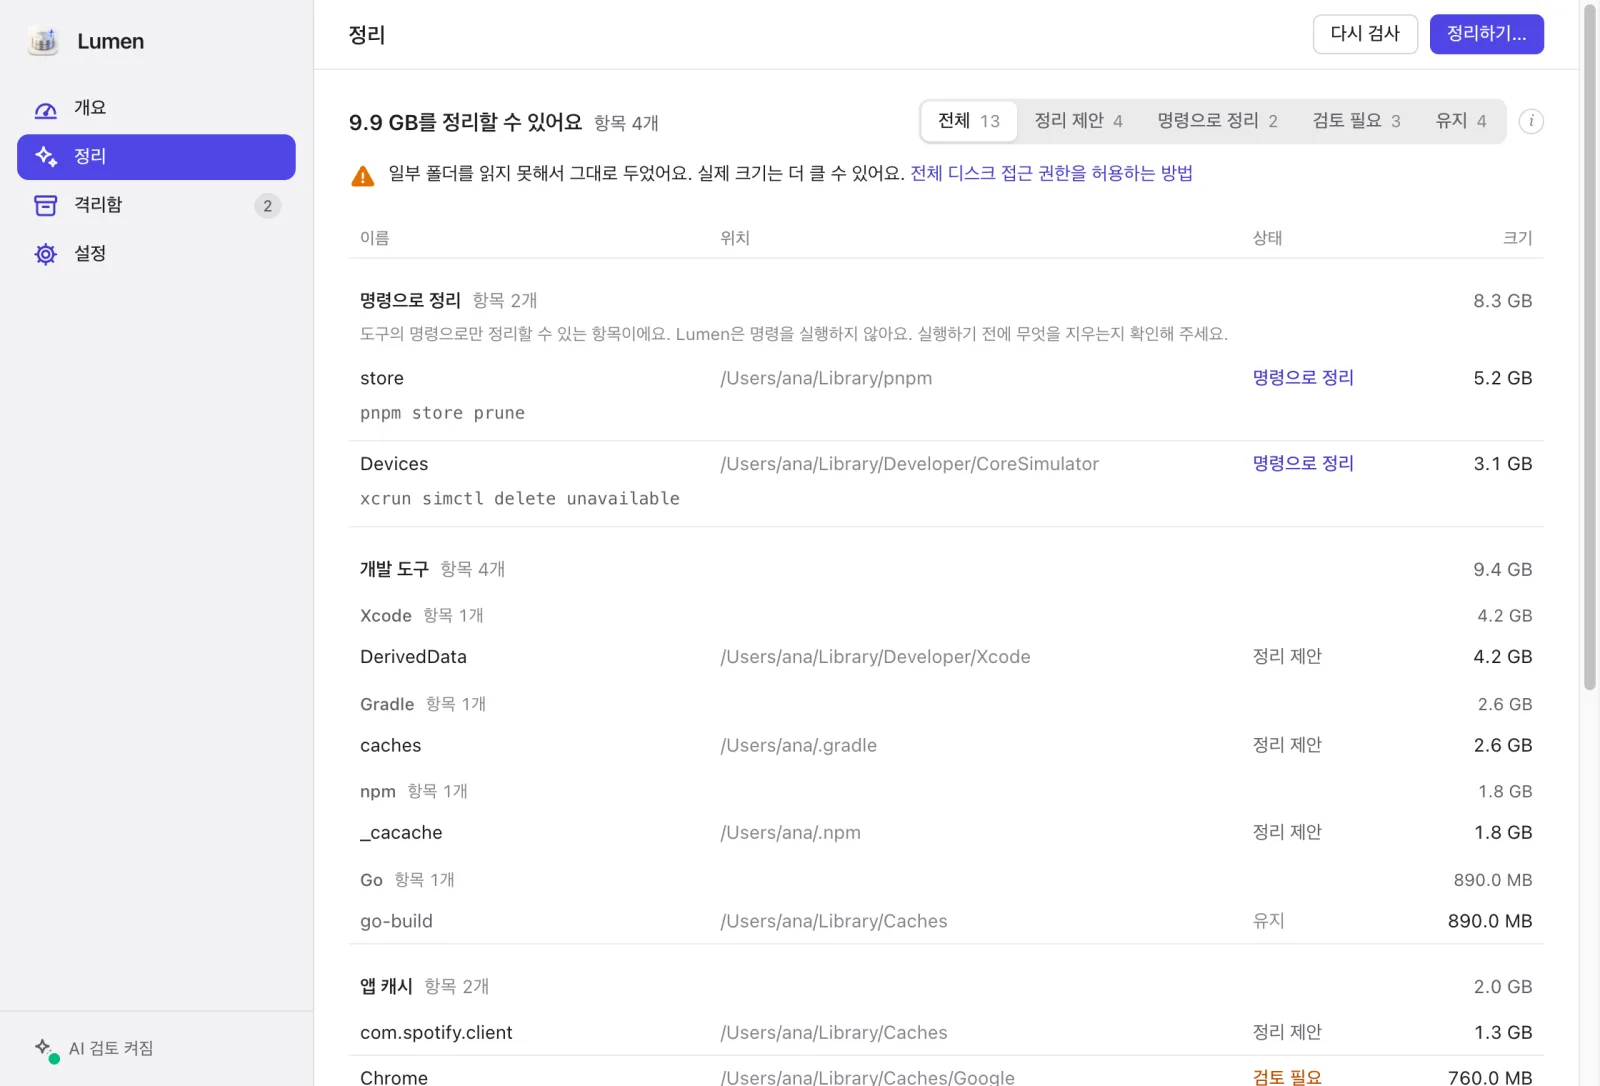
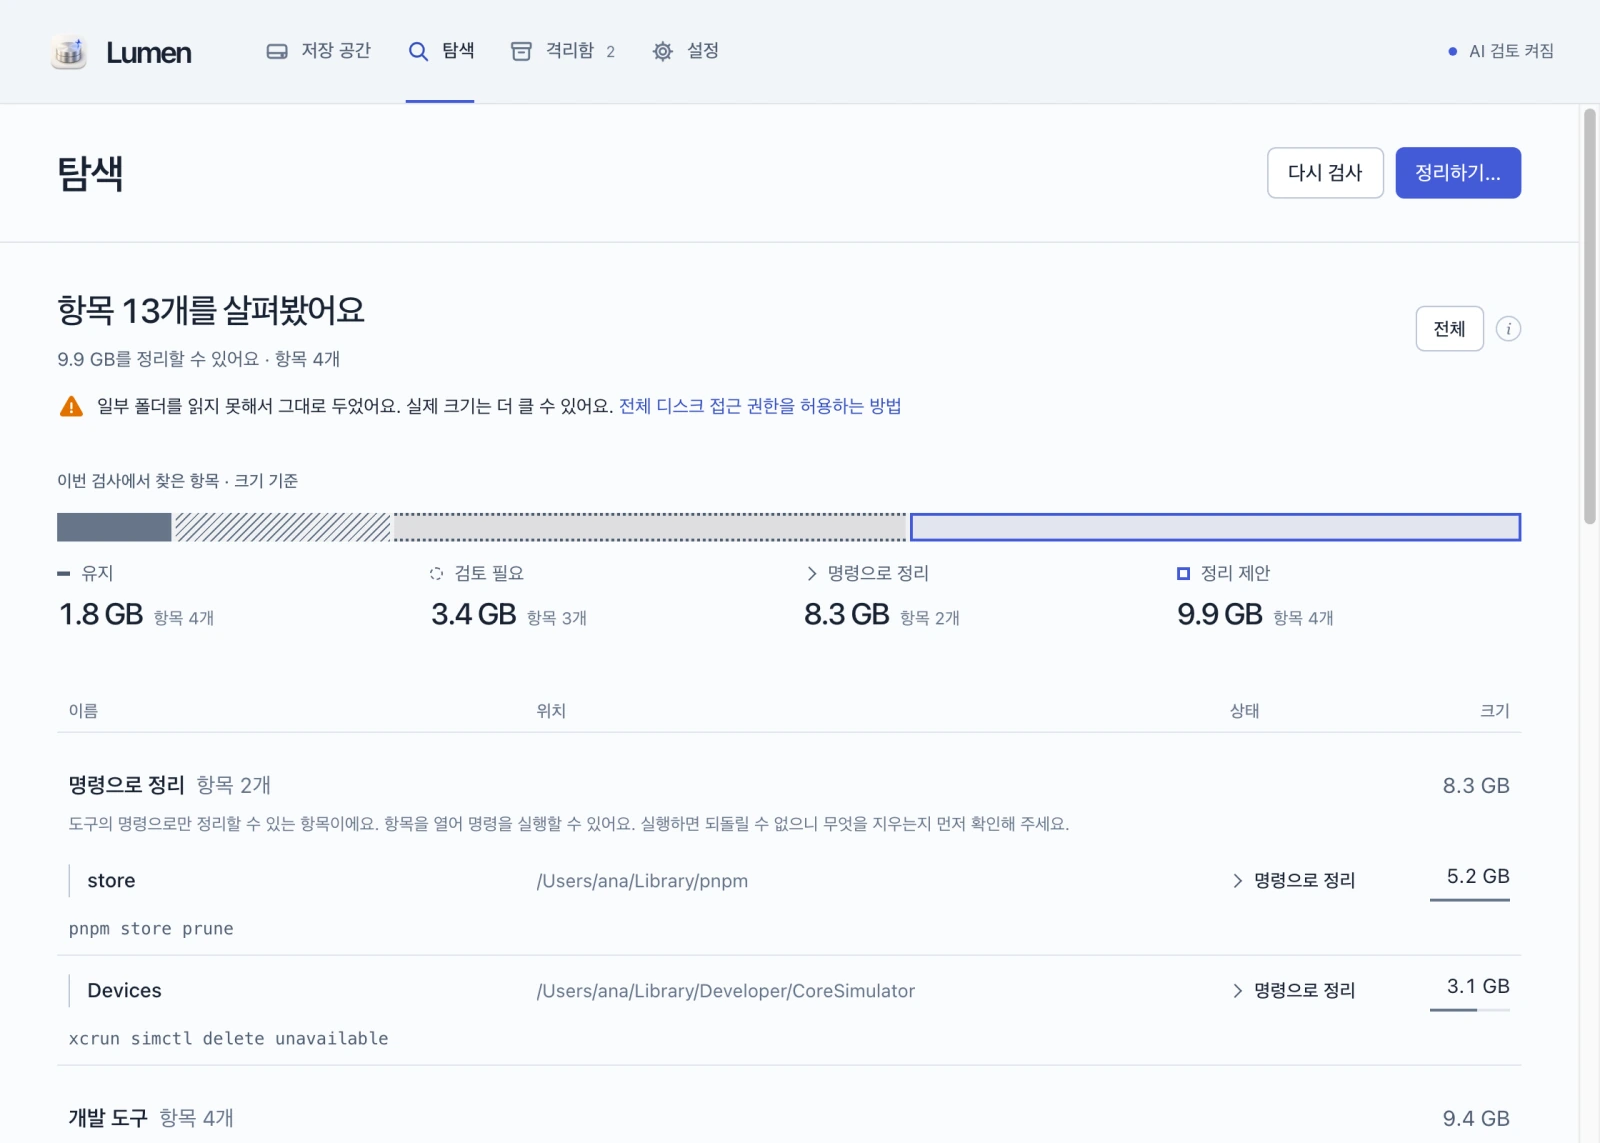
docs: refresh app screenshots for the current UI (#518)

diff --git a/apps/site/src/i18n/ko.ts b/apps/site/src/i18n/ko.ts
@@ -19,7 +19,7 @@ export const ko: Messages = {
     requirements: "macOS 13+ · Windows 10 22H2+ · Linux x86_64",
   },
   showcase: {
-    main: "Lumen의 정리 화면. 개발 도구와 앱 캐시에서 9.9 GB를 정리할 수 있다고 제안하고, 도구가 직접 정리해야 하는 항목은 명령과 함께 보여 줘요.",
+    main: "예시 데이터를 보여 주는 Lumen 탐색 화면. 판단별 용량 구성과 개발 도구·앱 캐시의 정리 제안 9.9 GB를 보여 주고, 도구가 직접 정리해야 하는 항목은 명령과 함께 보여 줘요.",
   },
   features: {
     title: "Lumen이 하는 일",

diff --git a/apps/site/src/i18n/en.ts b/apps/site/src/i18n/en.ts
@@ -18,7 +18,7 @@ export const en: Messages = {
     requirements: "macOS 13+ · Windows 10 22H2+ · Linux x86_64",
   },
   showcase: {
-    main: "Lumen's Clean up page, proposing 9.9 GB across developer tools and app caches, and listing items that only their own tool should clean with the command to run.",
+    main: "Lumen's Explore page with sample data: storage composition by decision, 9.9 GB proposed across developer tools and app caches, and commands for items their own tool should clean.",
   },
   features: {
     title: "What Lumen does",

diff --git a/docs/design/site-illustrations.md b/docs/design/site-illustrations.md
@@ -89,8 +89,43 @@ with alpha.
 The home page and the README show the app itself (`apps/site/public/screens/` and
 `docs/assets/readme/`): the web app run in a browser on its in-memory transport, with
 its sample data (a fictional `/Users/ana`, never a real disk) and the built-in-key
-option on so AI notes appear, at the desktop window's default width (1120 px, 2x).
-The site uses one light `clean-up` capture per language (WebP, 1600 px wide);
-the README also shows Quarantine and the review view in light and dark. Retake them
-when the screens change noticeably, so the pictures never show a UI the app no longer
-has.
+option on so AI notes appear, at the desktop window's default size (1120 × 800 px,
+2x; Quarantine uses the minimum 560 px height to fit its two sample items). They were
+refreshed on 2026-10-29 after the storage-identity redesign: horizontal
+navigation, storage composition and an evidence inspector replace the old sidebar UI.
+The site displays one light Explore capture per language (WebP, 1600 × 1143 px).
+Its other four localized review/Quarantine assets are also refreshed; they are not
+additional home-page sections. The README uses eight English PNGs:
+Explore, Storage and the evidence inspector at 2240 × 1600 px, and Quarantine at
+2240 × 1120 px, each in light and dark.
+
+### Retaking the captures
+
+`scripts/capture-app-screens.mjs` uses Node.js 24's built-in CDP connection and `cwebp`,
+with no new package dependency. Start the web dev server:
+
+```sh
+pnpm --filter @lumen/web exec vite --host 127.0.0.1 --port 5198 --strictPort
+```
+
+In another terminal, start an isolated Chrome instance (macOS for the platform fonts):
+
+```sh
+"/Applications/Google Chrome.app/Contents/MacOS/Google Chrome" --headless=new \
+  --remote-debugging-port=9342 --no-first-run --no-default-browser-check \
+  --disable-background-networking --disable-component-update \
+  --user-data-dir="$(mktemp -d -t lumen-screens)" about:blank
+```
+
+Then run `node scripts/capture-app-screens.mjs`. `LUMEN_CAPTURE_ORIGIN` and
+`LUMEN_CAPTURE_CDP` can override those loopback URLs. The script changes only the
+served fixture bootstrap to enable sample AI notes; it does not edit the app's source
+or rendered DOM, invoke the native host, access a keychain or contact an AI service.
+It checks the bootstrap shape, pins the sample clock to 2026-10-29, waits for fonts
+and expected data, and rejects runtime exceptions, external requests and horizontal
+overflow. All pictured paths belong to the fictional `/Users/ana`.
+
+Retake the captures when screens change noticeably. Inspect the results, build the
+site and check both languages at desktop and mobile widths. Stop the temporary
+browser and server after capture. The 3D concept illustrations and app icon above
+are separate assets and do not need replacement when only the UI changes.

diff --git a/README.md b/README.md
@@ -17,7 +17,7 @@ what is safe to remove, into a quarantine you can restore from.
 
 <picture>
   <source media="(prefers-color-scheme: dark)" srcset="docs/assets/readme/clean-up-dark.png">
-  <img src="docs/assets/readme/clean-up-light.png" width="840" alt="Lumen's Clean up page: 9.9 GB proposed across developer tools and app caches, with items that only their own tool should clean listed with the command to run.">
+  <img src="docs/assets/readme/clean-up-light.png" width="840" alt="Lumen's Explore page with sample data: storage composition by decision, 9.9 GB proposed, and tool-native cleanup commands.">
 </picture>
 
 </div>
@@ -46,16 +46,16 @@ what is safe to remove, into a quarantine you can restore from.
     <td width="50%">
       <picture>
         <source media="(prefers-color-scheme: dark)" srcset="docs/assets/readme/review-dark.png">
-        <img src="docs/assets/readme/review-light.png" alt="Items that need review, with AI notes such as: likely an app's settings or data.">
+        <img src="docs/assets/readme/review-light.png" alt="An item's evidence inspector: origin, location, review decision and the reasons behind it, with an optional AI note. Sample data.">
       </picture>
-      <p align="center"><b>Needs review</b>, with what AI thinks each item is</p>
+      <p align="center"><b>Evidence</b>: an item's origin and the reasons behind its decision</p>
     </td>
     <td width="50%">
       <picture>
         <source media="(prefers-color-scheme: dark)" srcset="docs/assets/readme/overview-dark.png">
-        <img src="docs/assets/readme/overview-light.png" alt="Overview: the startup disk is 96.9% used, and the last scan proposed 9.9 GB.">
+        <img src="docs/assets/readme/overview-light.png" alt="Storage with sample data: available disk space, a measured capacity view and the last scan grouped by decision.">
       </picture>
-      <p align="center"><b>Overview</b> of the disk and the last scan</p>
+      <p align="center"><b>Storage</b>: disk capacity and the last scan's composition</p>
     </td>
   </tr>
   <tr>
